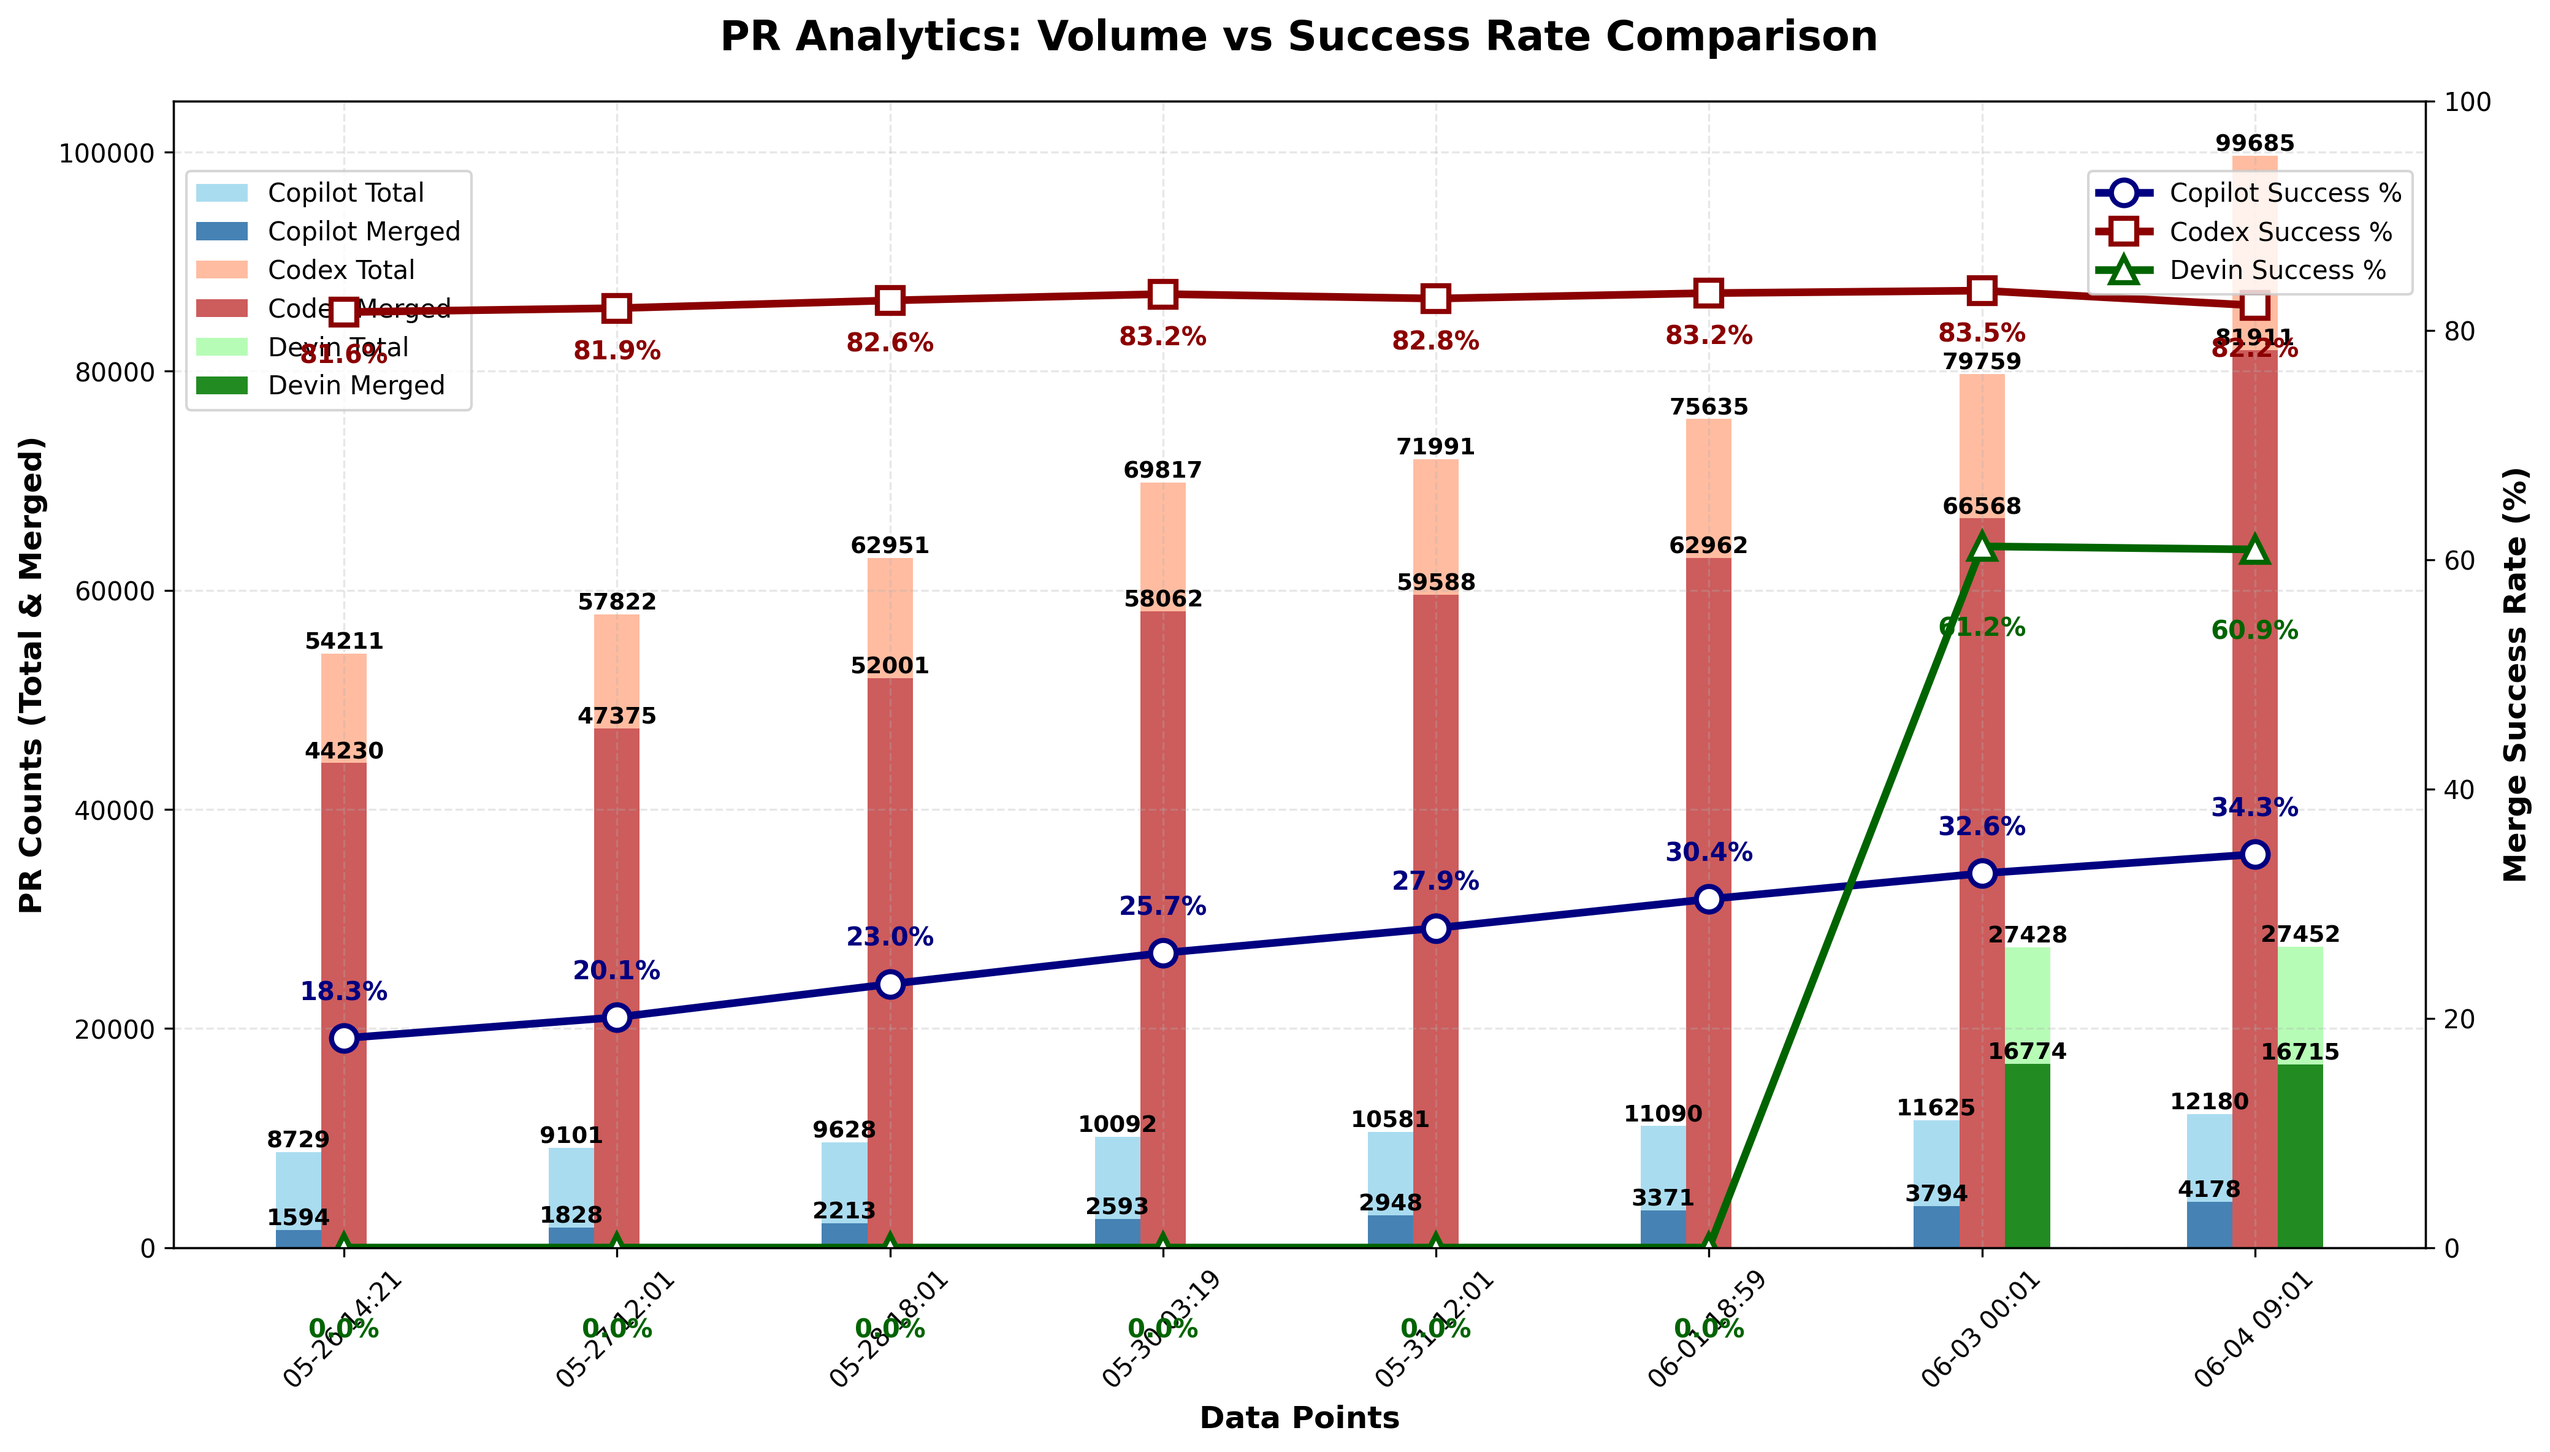
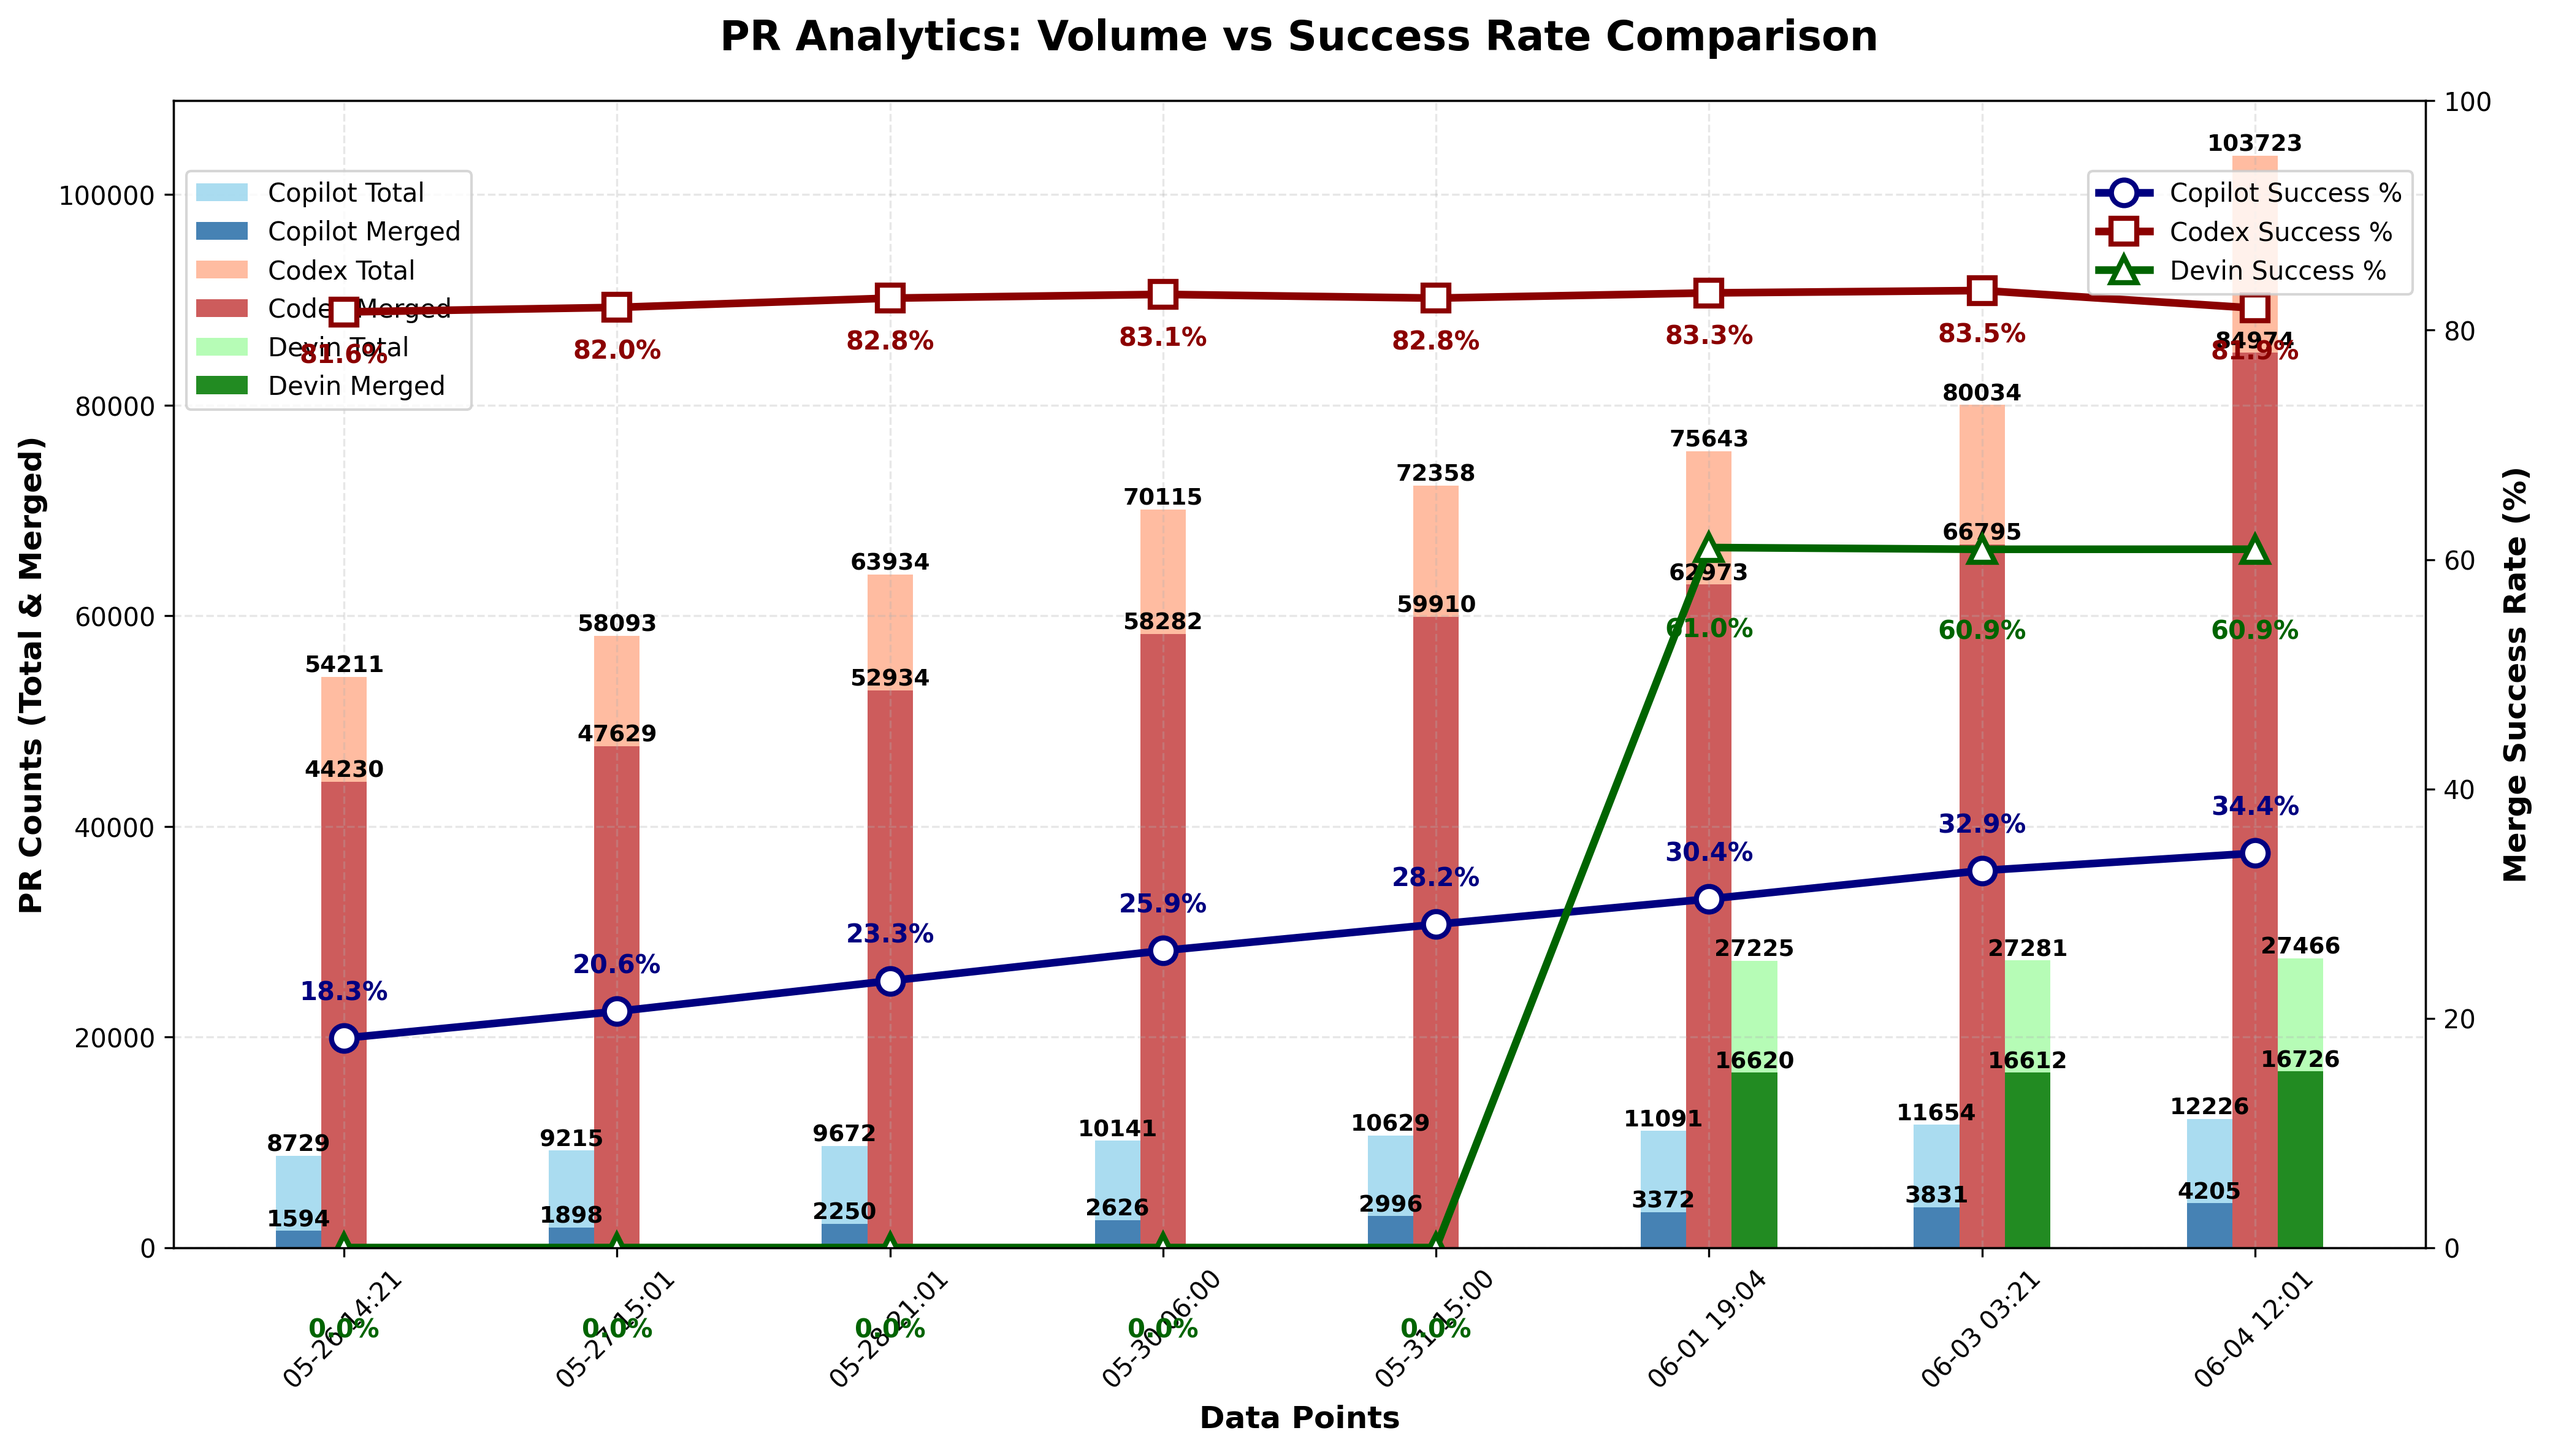
chore: update PR‑approval chart

diff --git a/docs/index.html b/docs/index.html
@@ -46,22 +46,22 @@
                 <tbody>
                     <tr>
                         <td>Copilot</td>
-                        <td>12,180</td>
-                        <td>4,178</td>
-                        <td>34.30%</td>
+                        <td>12,226</td>
+                        <td>4,205</td>
+                        <td>34.39%</td>
                     </tr>
                     <tr>
                         <td>Codex</td>
-                        <td>99,685</td>
-                        <td>81,911</td>
-                        <td>82.17%</td>
+                        <td>103,723</td>
+                        <td>84,974</td>
+                        <td>81.92%</td>
                     </tr>
                 </tbody>
             </table>
         </section>
 
         <footer>
-            <p>Last updated: <span id="last-updated">June 04, 2025 09:01 UTC</span></p>
+            <p>Last updated: <span id="last-updated">June 04, 2025 12:01 UTC</span></p>
             <p><a href="https://github.com/aavetis/ai-pr-watcher">View on GitHub</a></p>
         </footer>
     </div>

diff --git a/README.md b/README.md
@@ -21,6 +21,6 @@ Explore the GitHub search queries used:
 
 | Project | Total PRs | Merged PRs | Merge Rate |
 | ------- | --------- | ---------- | ---------- |
-| Copilot | 12,180 | 4,178 | 34.30% |
-| Codex   | 99,685 | 81,911 | 82.17% |
-| Devin   | 27,452 | 16,715 | 60.89% |
+| Copilot | 12,226 | 4,205 | 34.39% |
+| Codex   | 103,723 | 84,974 | 81.92% |
+| Devin   | 27,466 | 16,726 | 60.90% |
